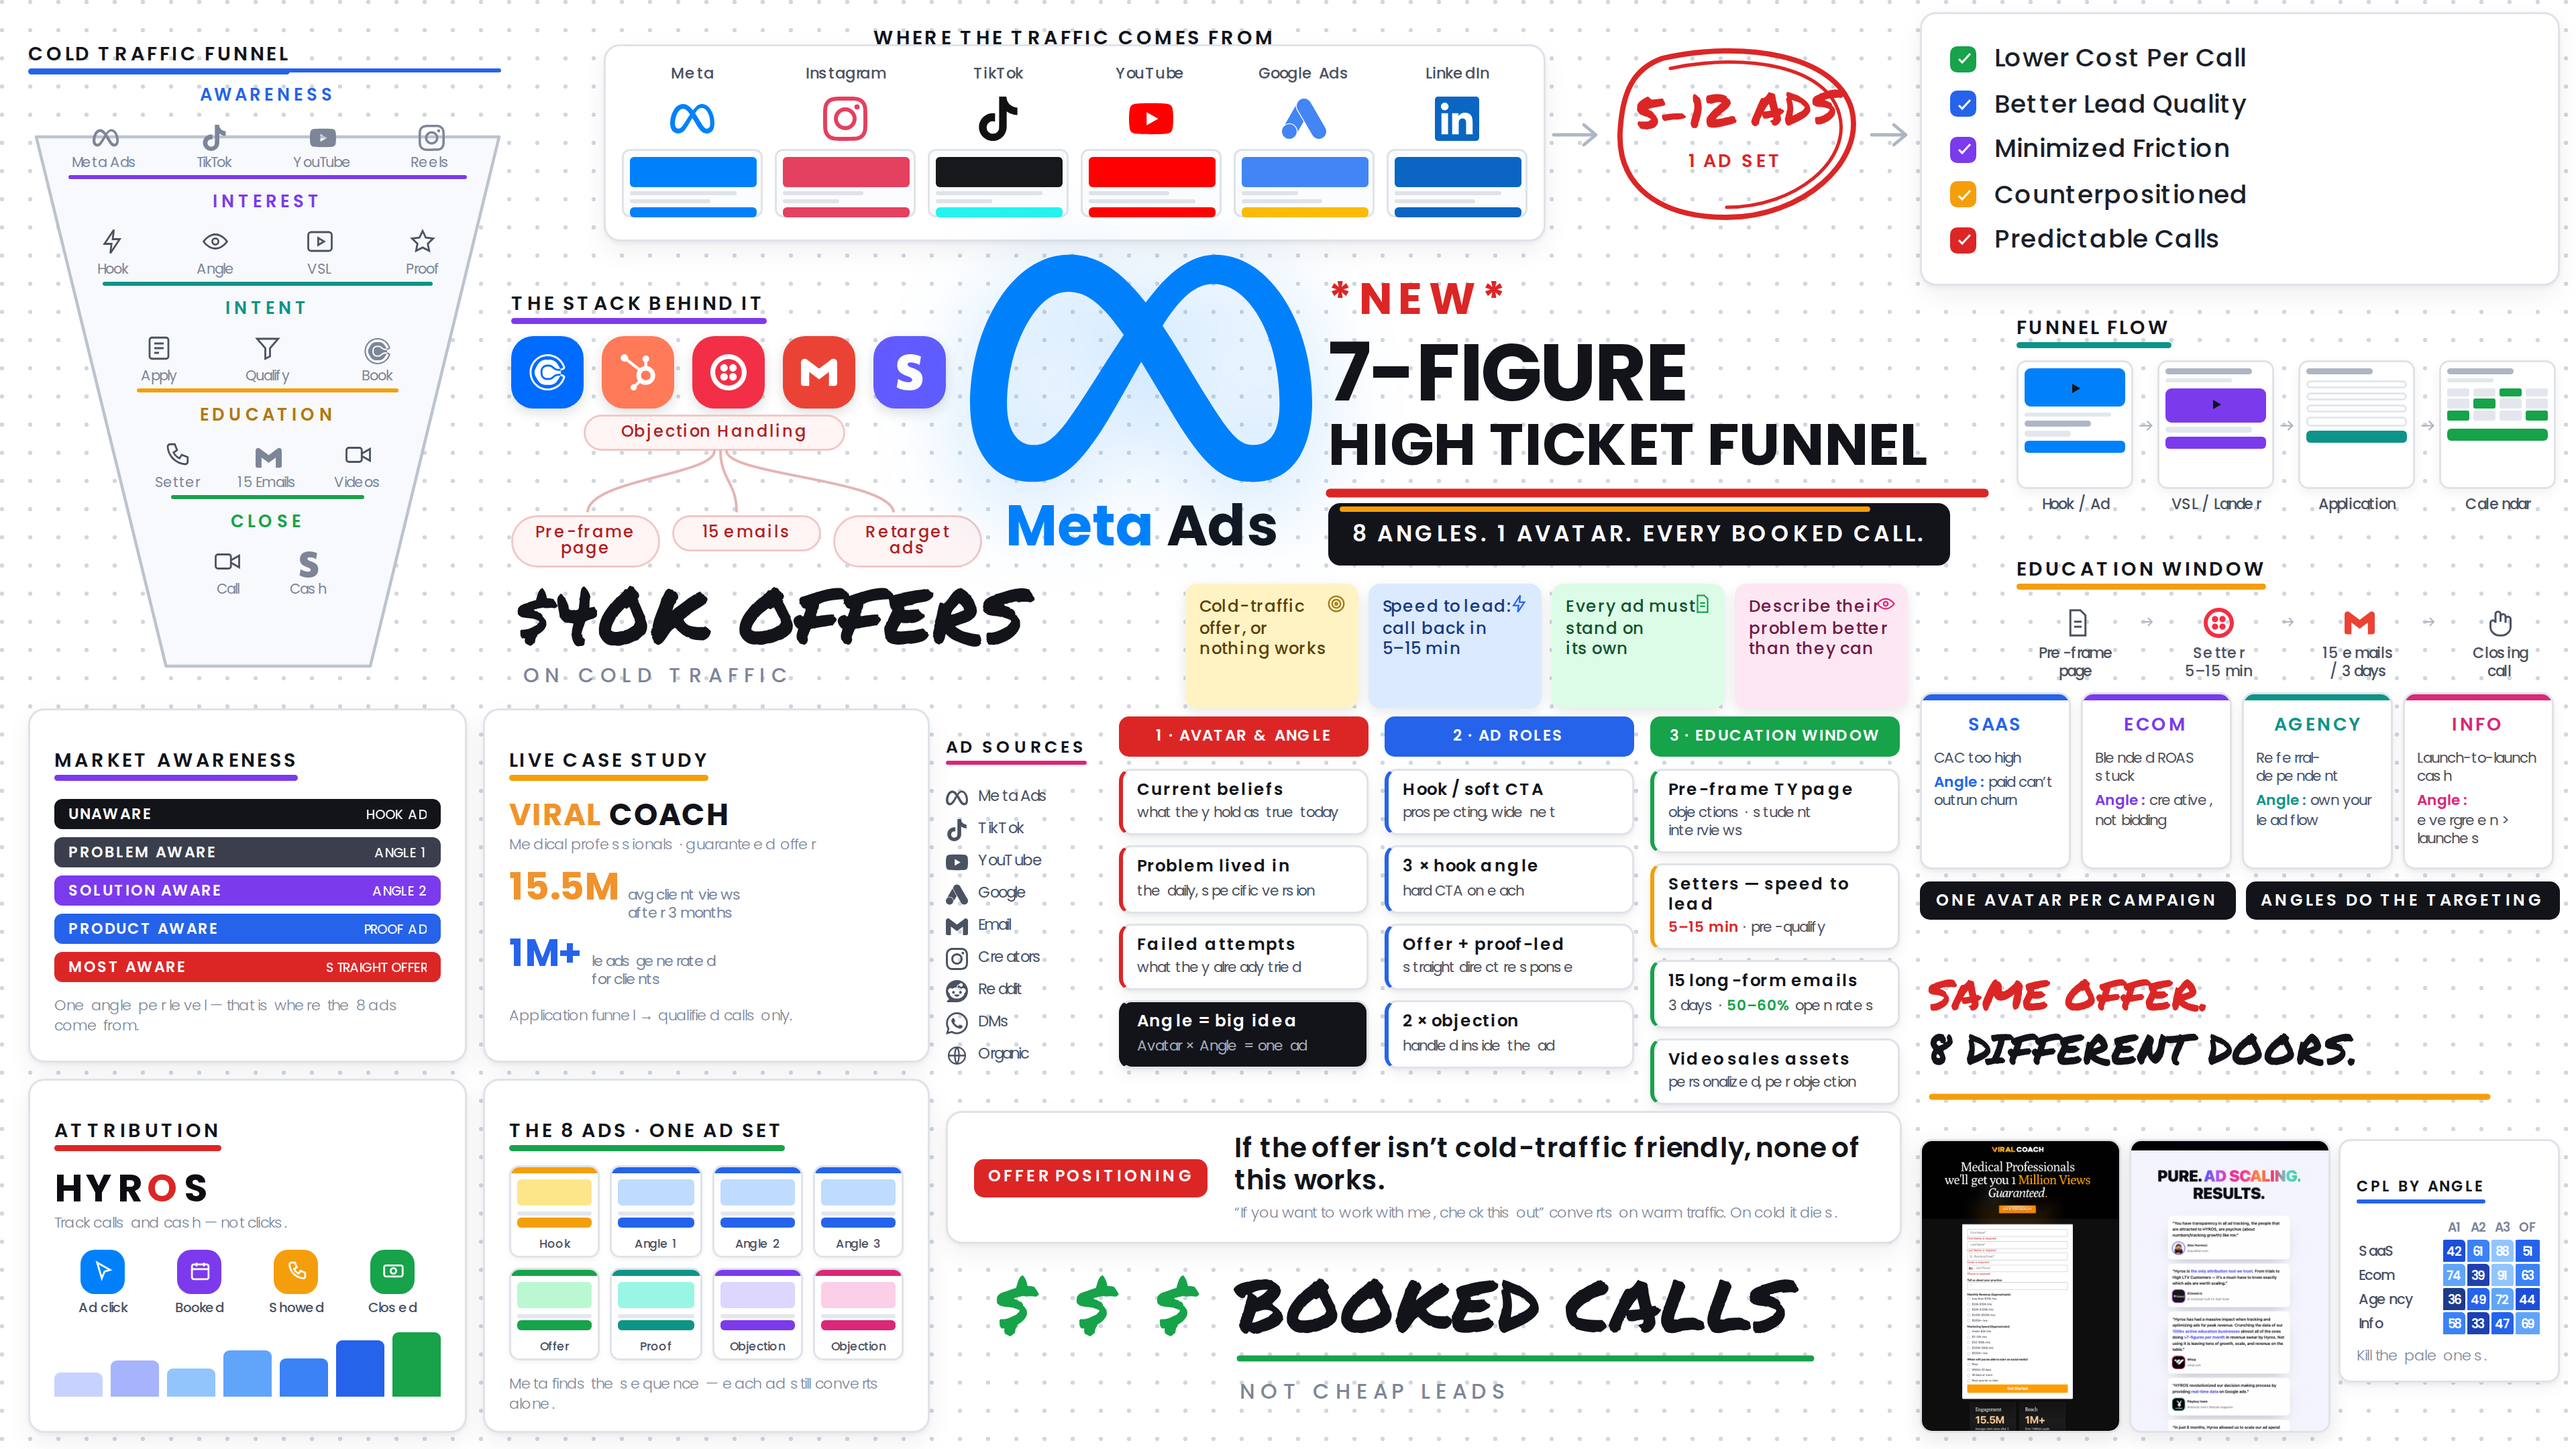
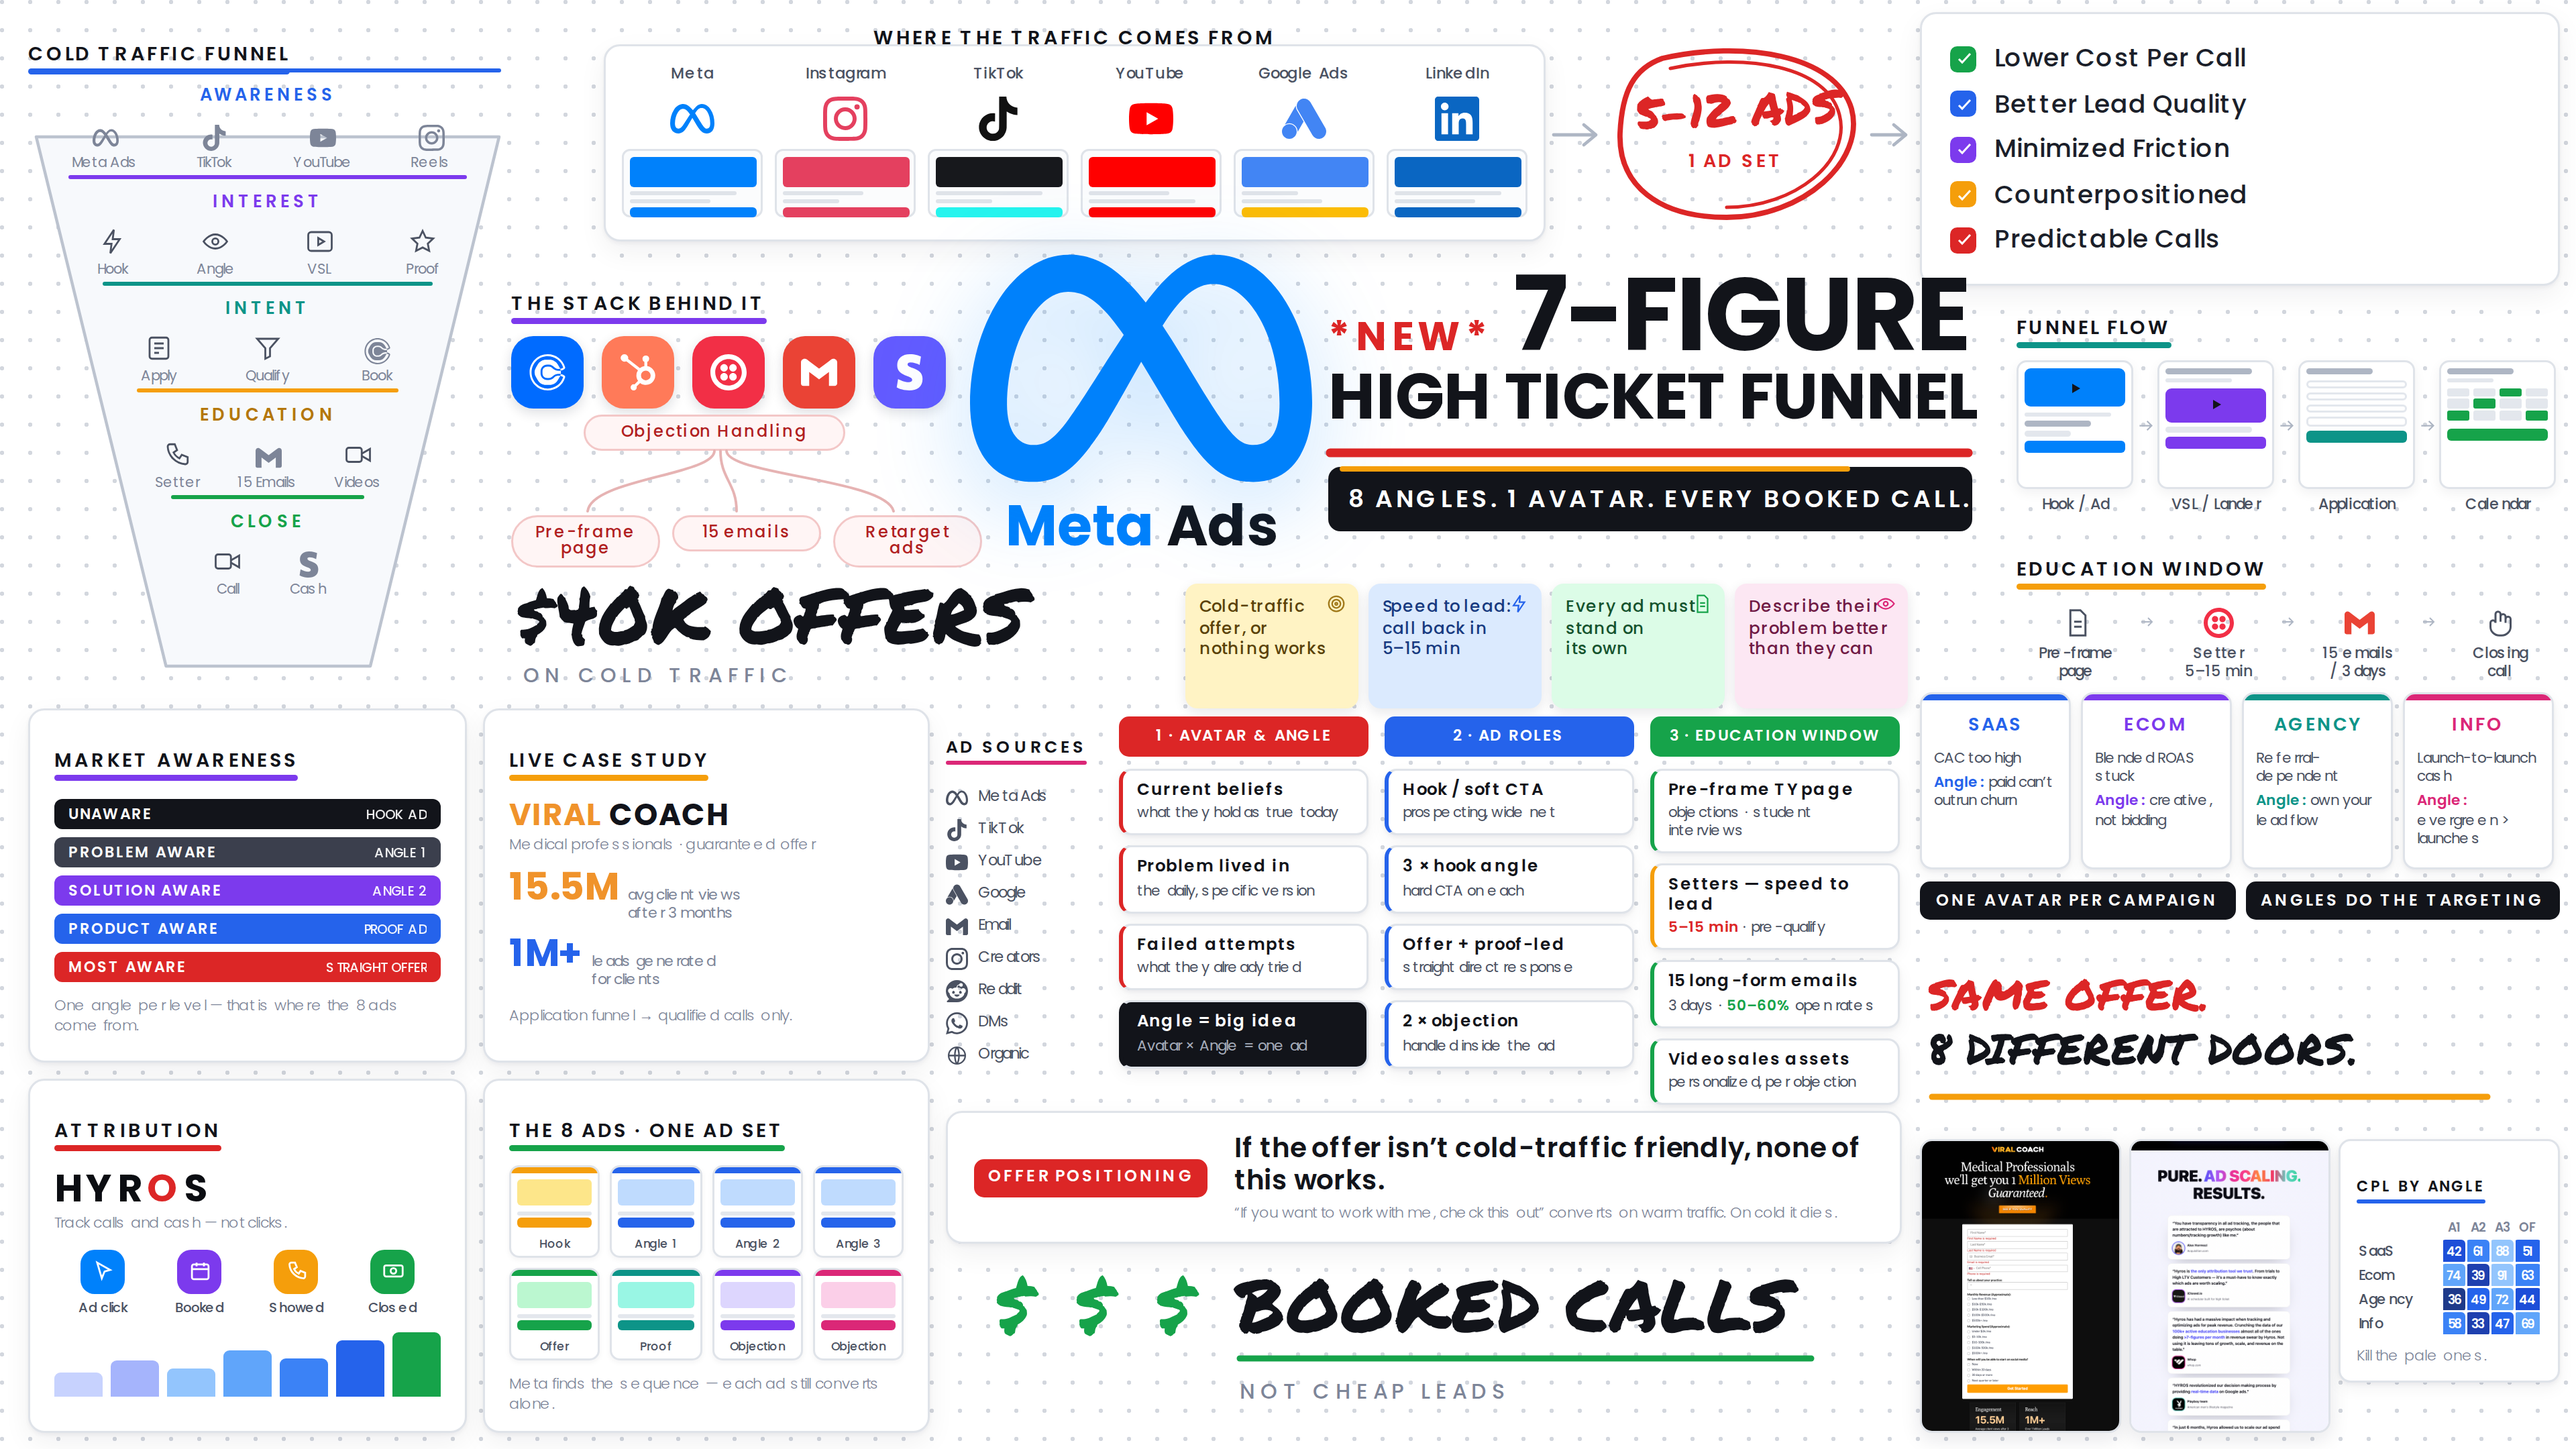
Rebalance the thumbnail title block
The three left-aligned rows got wider going down, leaving a wedge of dead
space at the top right. Restructured into two rows sized to a common 320px
measure so the block is flush on both edges:

- *NEW* moved inline with 7-FIGURE on one baseline
- Row sizes derived from measured glyph advances instead of estimates
- Right edge pulled back to open a 22px gutter before FUNNEL FLOW
- Subtitle bar spans the measure, centred, and no longer wraps

Claude-Session: https://claude.ai/code/session_01GDiUpLQwiL13ZvT66QBghD

Changed region(s): [[0.5, 0.1861, 0.7812, 0.4032]]

diff --git a/design/thumbnails/multi-avatar-funnel/index.html b/design/thumbnails/multi-avatar-funnel/index.html
@@ -148,15 +148,15 @@ svg.pen{position:absolute;overflow:visible;pointer-events:none}
 #anchor .mads i{font-style:normal;color:#0081fb}
 
 /* ═══════ F · title ═══════ */
-#ttl{left:660px;top:138px;width:340px}
-#ttl .l0{font-weight:700;font-size:22px;letter-spacing:.15em;line-height:1;
-  color:var(--red);white-space:nowrap}
-#ttl .l1{font-weight:700;font-size:40px;letter-spacing:-.015em;line-height:1;
-  margin-top:5px;white-space:nowrap}
-#ttl .l2{font-weight:700;font-size:29px;letter-spacing:-.008em;line-height:1.02;
+/* two flush lines of near-equal width — no staircase, no dead wedge */
+#ttl{left:660px;top:132px;width:320px}
+#ttl .r1{display:flex;align-items:baseline;gap:10px;white-space:nowrap}
+#ttl .l0{font-weight:700;font-size:20px;letter-spacing:.14em;line-height:1;color:var(--red)}
+#ttl .l1{font-weight:700;font-size:51px;letter-spacing:-.02em;line-height:.95}
+#ttl .l2{font-weight:700;font-size:31.9px;letter-spacing:-.008em;line-height:1;
   margin-top:2px;white-space:nowrap}
-#ttl .bar{margin-top:13px;display:inline-block;background:#12141a;color:#fff;
-  font-weight:600;font-size:11px;letter-spacing:.11em;padding:7px 12px;border-radius:6px}
+#ttl .bar{margin-top:18px;display:block;text-align:center;white-space:nowrap;background:#12141a;color:#fff;
+  font-weight:600;font-size:12px;letter-spacing:.1em;padding:7px 10px;border-radius:6px}
 
 /* ═══════ G · stickies ═══════ */
 #stk{left:589px;top:290px;width:359px;display:flex;gap:5px}
@@ -461,12 +461,11 @@ svg.pen{position:absolute;overflow:visible;pointer-events:none}
 
   <!-- ═══════ F · title ═══════ -->
   <div class="abs" id="ttl">
-    <div class="l0">*NEW*</div>
-    <div class="l1">7-FIGURE</div>
+    <div class="r1"><span class="l0">*NEW*</span><span class="l1">7-FIGURE</span></div>
     <div class="l2">HIGH TICKET FUNNEL</div>
-    <svg class="pen" style="left:0;top:102px;width:330px;height:15px">
-      <path style="stroke:var(--red);stroke-width:4.4" d="M1 5 H326"/>
-      <path style="stroke:var(--amber);stroke-width:2.6" d="M7 13 H268"/>
+    <svg class="pen" style="left:0;top:88px;width:320px;height:15px">
+      <path style="stroke:var(--red);stroke-width:4.4" d="M1 5 H318"/>
+      <path style="stroke:var(--amber);stroke-width:2.6" d="M7 13 H258"/>
     </svg>
     <div class="bar">8 ANGLES. 1 AVATAR. EVERY BOOKED CALL.</div>
   </div>

diff --git a/design/thumbnails/multi-avatar-funnel/README.md b/design/thumbnails/multi-avatar-funnel/README.md
@@ -64,7 +64,7 @@ stay visible, move it right rather than clearing space.
 | C | 954,6 – 1272,142 | What it unlocks — checklist with coloured checkboxes |
 | D | 254,136 – 490,280 | Tool-stack discs, then Objection Handling fanning into three assets |
 | E | 482,98 – 652,276 | Meta Ads lockup — oversized anchor mark + wordmark |
-| F | 660,138 – 1000,282 | `*NEW*` / `7-FIGURE` / `HIGH TICKET FUNNEL`, red + amber underline, black subtitle bar |
+| F | 660,132 – 980,264 | `*NEW* 7-FIGURE` / `HIGH TICKET FUNNEL`, red + amber underline, black subtitle bar. All four rows are sized to the same 320px measure so the block is flush on both edges. |
 | — | 256,286 – 520,340 | `$40K OFFERS` / `on cold traffic` wordmark |
 | G | 589,290 – 948,352 | Four sticky notes — the non-negotiables |
 | H | 1002,148 – 1272,262 | Funnel flow wireframes: Hook/Ad → VSL → Application → Calendar |
@@ -87,6 +87,12 @@ stay visible, move it right rather than clearing space.
   for labels, 600 for headings and chips. Permanent Marker survives only on the three
   annotation-style bits: the circled `5-12 ADS` stat, `$40K OFFERS`, and
   `BOOKED CALLS` / `SAME OFFER`.
+- Title line sizes are derived from measured advances rather than guessed:
+  `*NEW*` 4.10em (tracking included), `7-FIGURE` 4.45em, `HIGH TICKET FUNNEL` 10.03em
+  at weight 700. If the copy changes, re-measure and resize so both rows still fill
+  the 320px measure — a ragged right edge is what made the earlier version look
+  lopsided. The subtitle bar carries `white-space:nowrap` so it can never wrap to a
+  second line.
 - Section headings use `.sec` plus a `u-*` class, which draws the coloured underline:
   `u-blue`, `u-red`, `u-green`, `u-amber`, `u-violet`, `u-teal`, `u-pink`.
 - Background is `#ffffff` with a 14px grey dot grid
